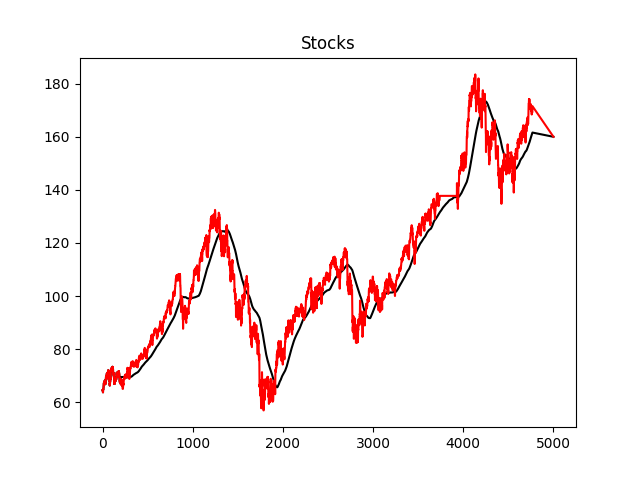
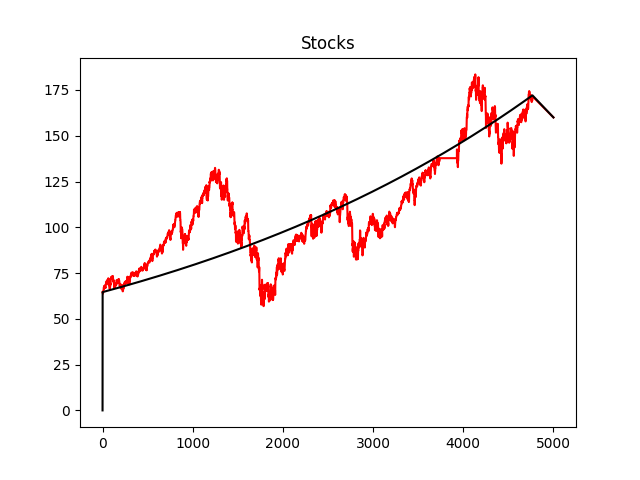
Add est to Stock obj

diff --git a/src/main.cpp b/src/main.cpp
@@ -13,21 +13,22 @@ int main() {
 	ReadFile rf; //TODO: create namespace instead of object
 
 	Stock omx30;
-	Stock omx30expected;
+	//Stock omx30expected;
 	Stock omx30mean200;
 	string fname_omx30="../data/stockdata_OMX30_1991-05-31_2017-07-03fill.dat";
 
 	rf.Read(fname_omx30,&omx30);
-    rf.Read(fname_omx30,&omx30expected);
+    //rf.Read(fname_omx30,&omx30expected);
     rf.Read(fname_omx30,&omx30mean200);
 
 
-	rf.ExpectedValue("2002-03-06",&omx30expected,7.5);
+	rf.ExpectedValue("2002-03-06",&omx30,7.5);
 	rf.Mean("2012-03-06",&omx30mean200,omx30,200);
+	//rf.BearBull(omx30mean200);
 
 	Plot plt1;
-	plt1.Plot_stocks(omx30expected,omx30);
-	plt1.Plot_stocks(omx30mean200,omx30);
+	plt1.PlotNodes(omx30);
+	//plt2.Plot_stocks(omx30mean200,omx30);
 
 
     /*Stock volvo;

diff --git a/src/plot.cpp b/src/plot.cpp
@@ -129,6 +129,37 @@ void Plot::Plot_stocks(Stock stock1,Stock stock2)
 
 }
 
+void Plot::PlotNodes(Stock stock)
+{
+
+	Stock::node *stocktmp = stock.head;
+
+	cout << "PRINT: " << endl;
+
+	int n=5100;
+
+	vector<int> x(n,5000);
+	vector<double> y(n,160);
+	vector<double> z(n,160);
+	vector<string> t(n);
+	int i = 0;
+    while(stocktmp != NULL){
+		x.at(i) = i;
+		t.at(i) = stocktmp->date;
+		y.at(i) = stocktmp->close;
+		z.at(i) = stocktmp->est;
+		i=i+1;
+		stocktmp=stocktmp->next;
+    }
+	plt::plot(x,y, "r-");
+	plt::plot(x,z, "k-");
+
+    plt::title("Stocks");
+	//plt::tight_layout();
+	plt::save("./portfolio.png");
+	plt::show();
+
+}
 
 
 Plot::~Plot()

diff --git a/src/readfile.h b/src/readfile.h
@@ -20,7 +20,10 @@ public:
 	void ExtractDayData(string,Stock*);
 	void ExtractStockData(string,Stock*);
 	void ExpectedValue(string,Stock*,float);
+	void BearBull();
+	void ExpectedValue2(string,Stock*,float);
 	void Mean(string,Stock*,Stock,int);
+	void nyfunction(){}
 	virtual ~ReadFile();
 };
 

diff --git a/src/stock.cpp b/src/stock.cpp
@@ -14,6 +14,7 @@ void Stock::add_node_to_end(string date,float close)
 	node *date_node = new node;
 	date_node->date = date;
 	date_node->close = close;
+	date_node->est = 0;
 	date_node->next = NULL;
 
 	if(head == NULL)

diff --git a/src/stock.h b/src/stock.h
@@ -16,6 +16,7 @@ class Stock{
 	  struct node{
 		  string date;
 		  float close;
+		  float est;
 		  node *next;
 	  };
 		node *head,*tail;
